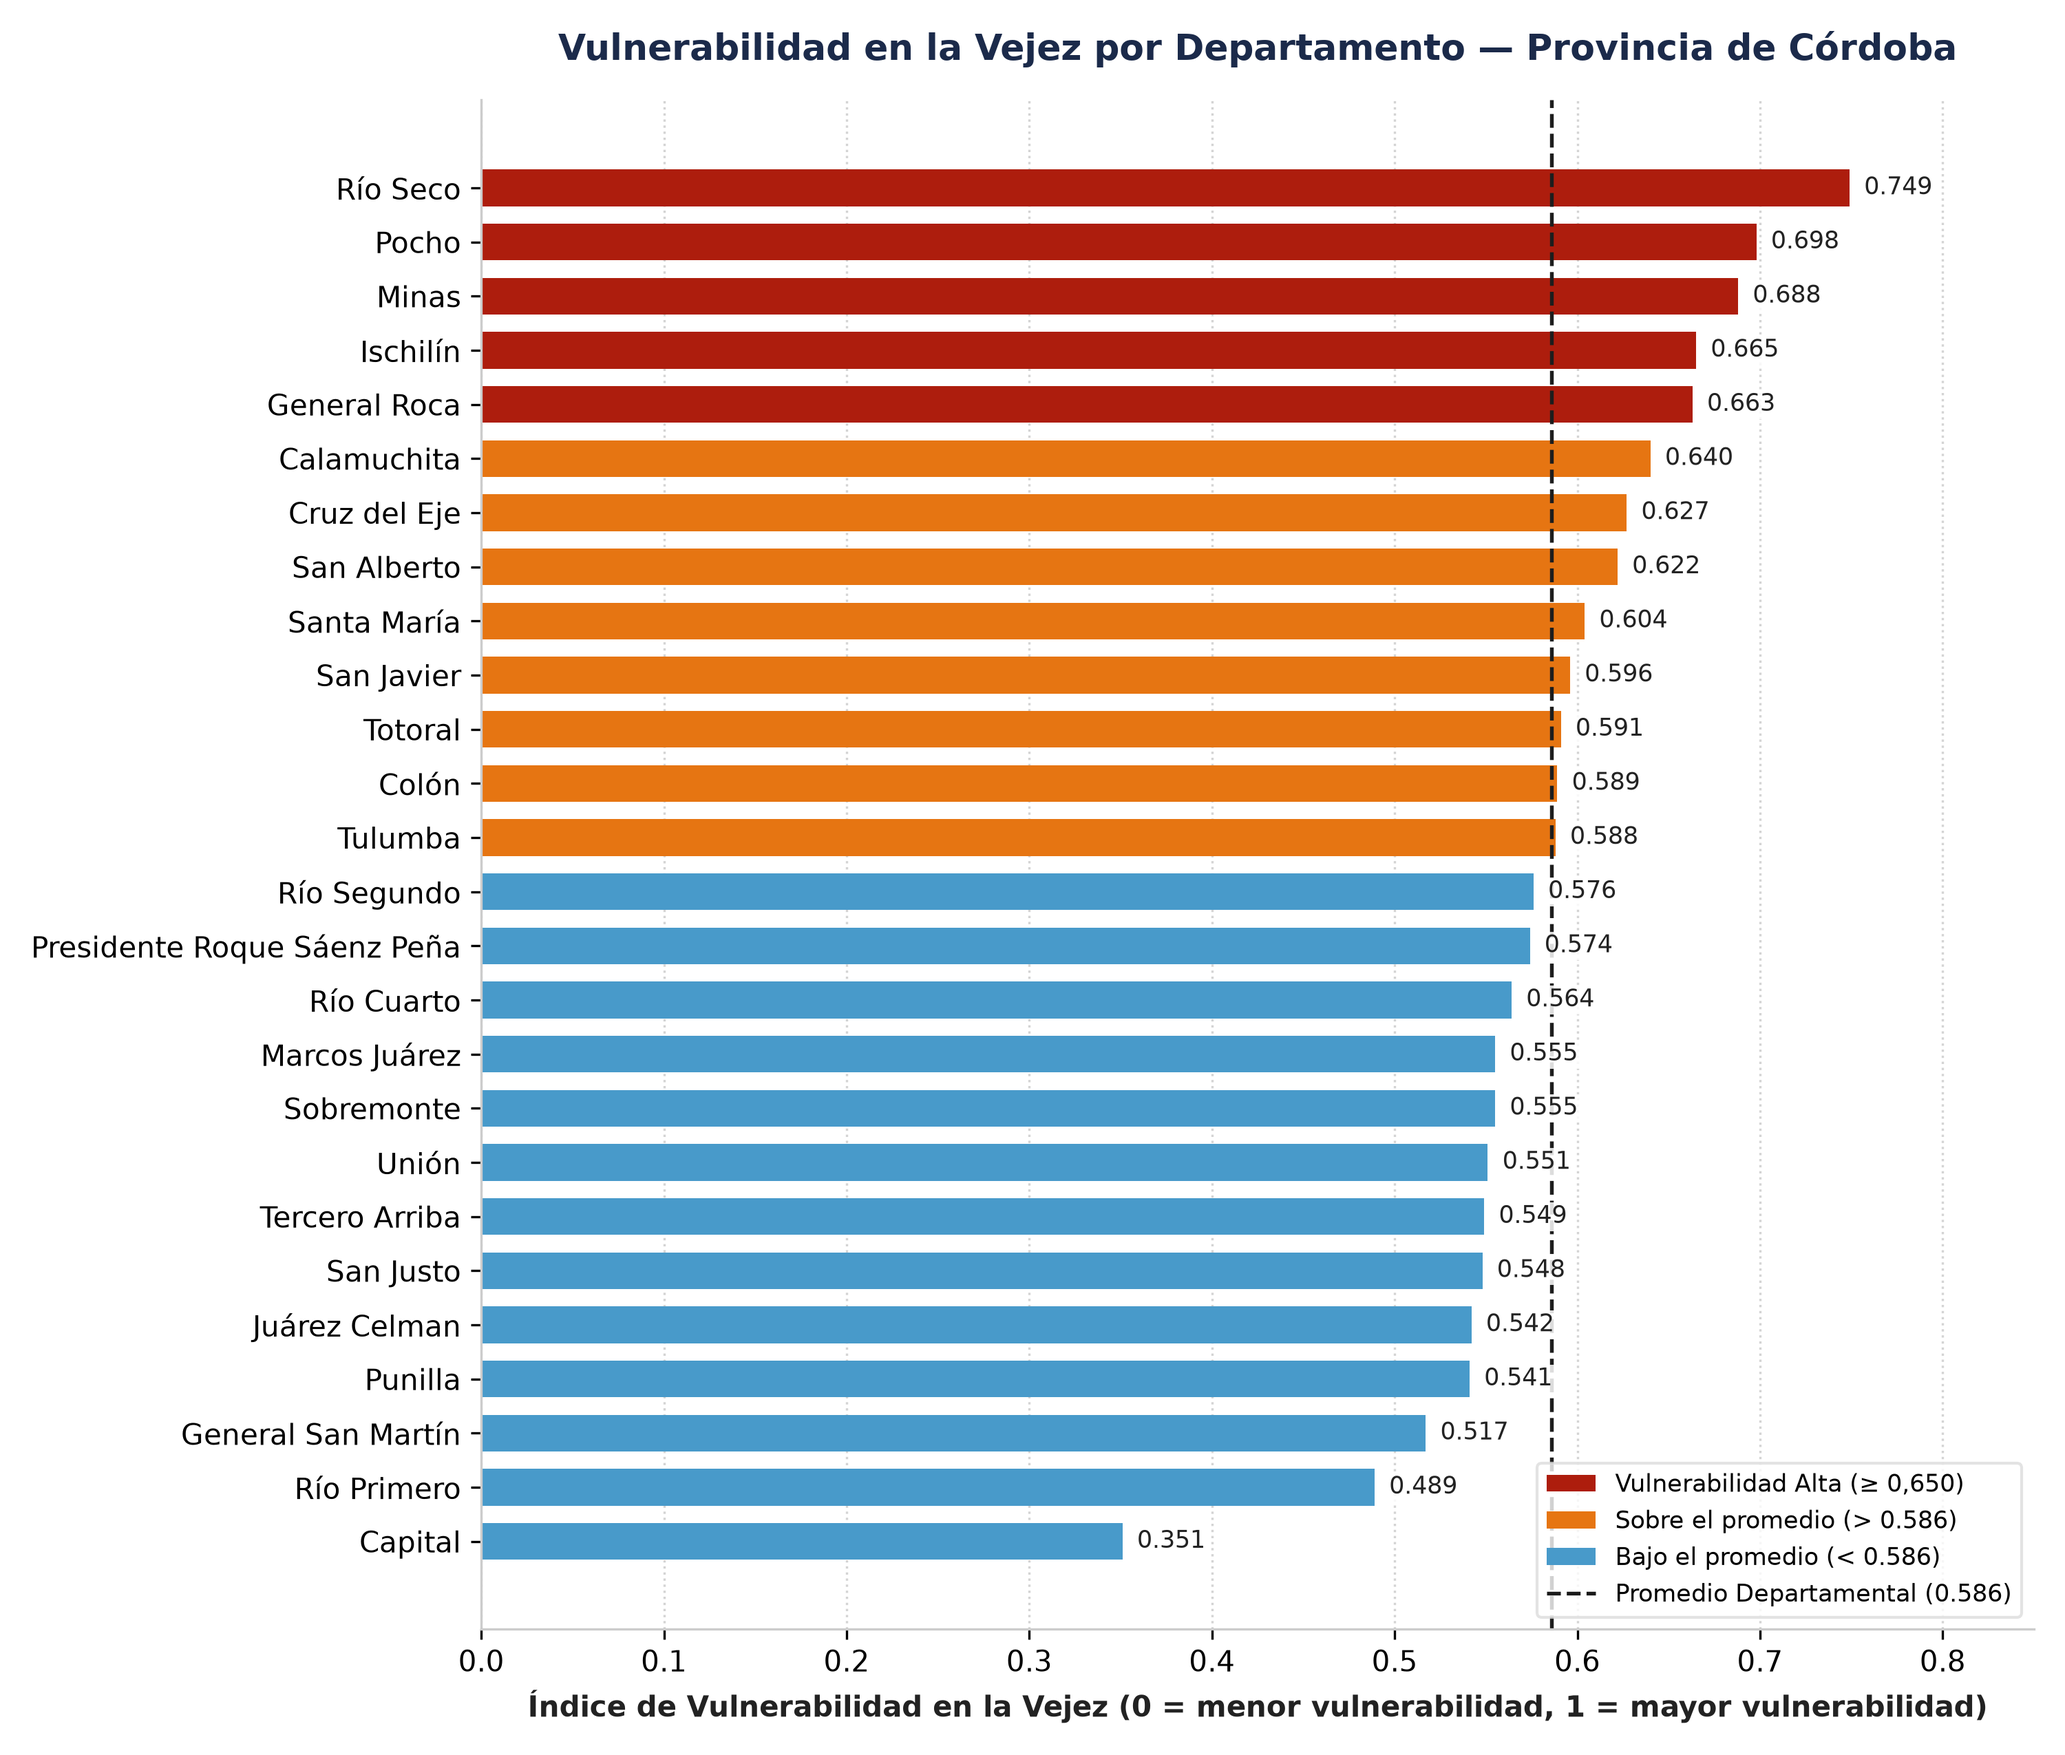
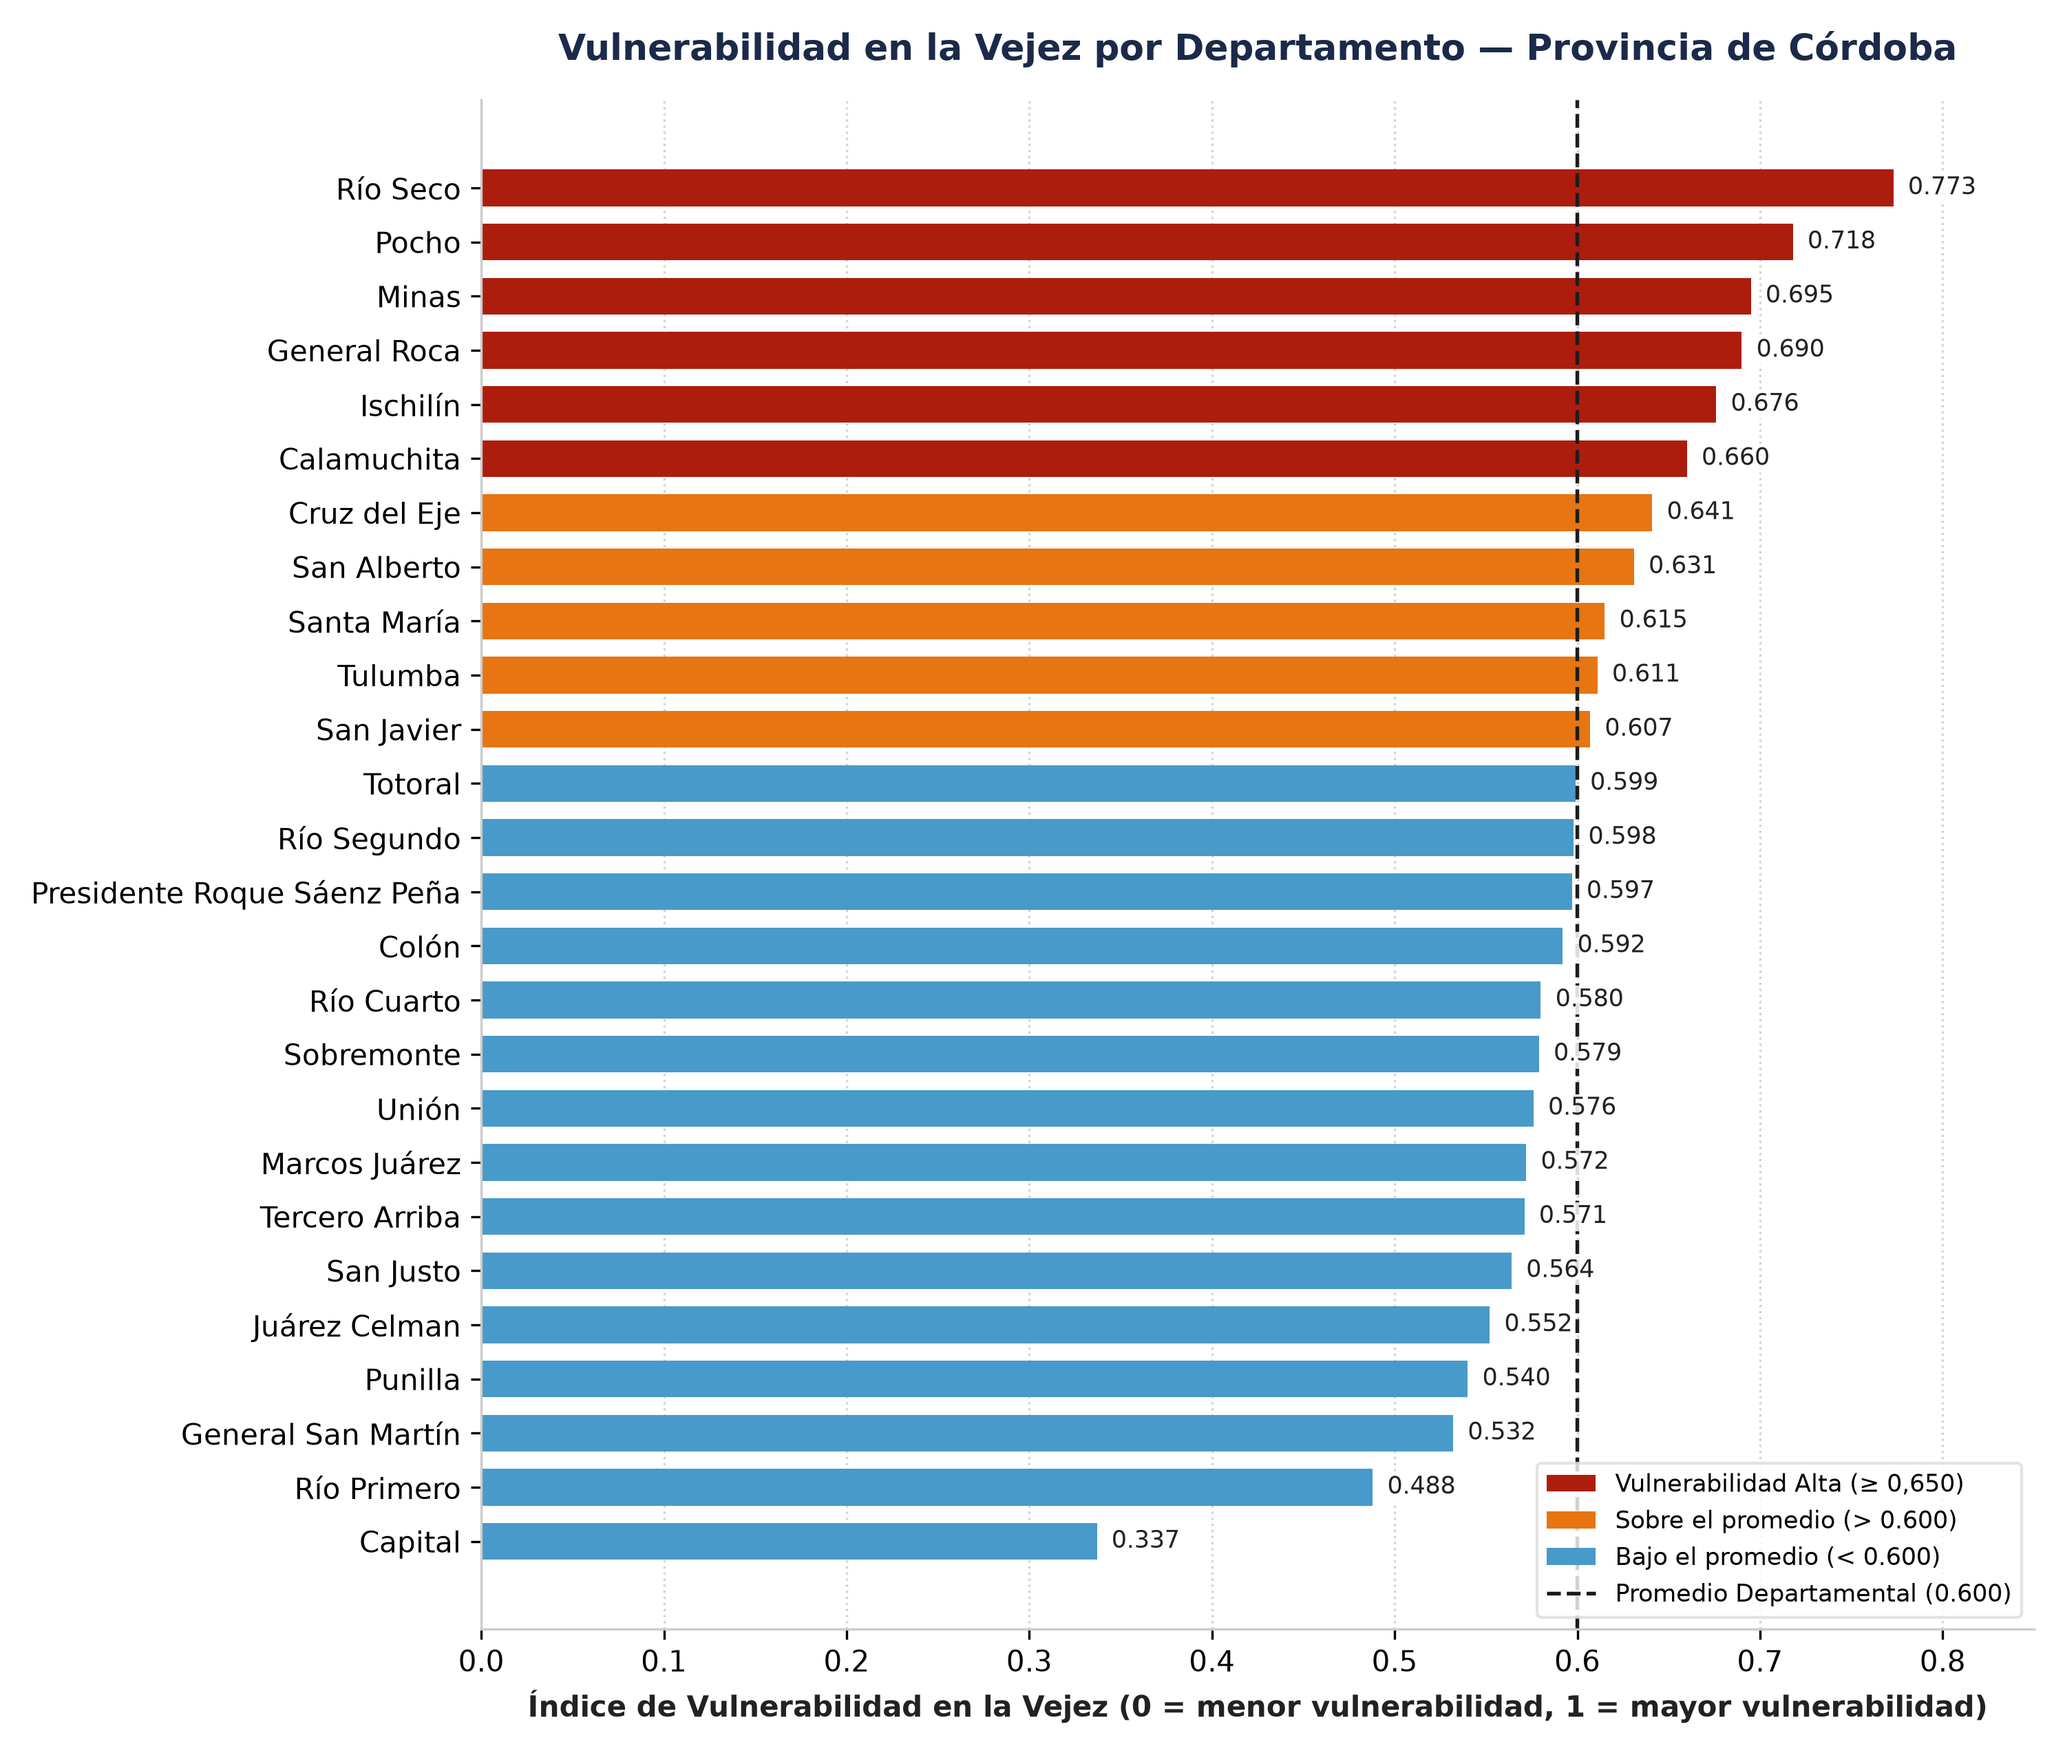
Correcion en los datos del indice de vulnerabilidad y graficos/mapa.

diff --git a/scripts/graph_vul.py b/scripts/graph_vul.py
@@ -15,32 +15,32 @@ departamentos = [
 
 # Índice de vulnerabilidad
 data = np.array([
-    [0.640],   # Calamuchita
-    [0.351],   # Capital
-    [0.589],   # Colón
-    [0.627],   # Cruz del Eje
-    [0.663],   # General Roca
-    [0.517],   # General San Martín
-    [0.665],   # Ischilín
-    [0.542],   # Juárez Celman
-    [0.555],   # Marcos Juárez
-    [0.688],   # Minas
-    [0.698],   # Pocho
-    [0.574],   # Presidente Roque Sáenz Peña
-    [0.541],   # Punilla
-    [0.564],   # Río Cuarto
-    [0.489],   # Río Primero
-    [0.749],   # Río Seco
-    [0.576],   # Río Segundo
-    [0.622],   # San Alberto
-    [0.596],   # San Javier
-    [0.548],   # San Justo
-    [0.604],   # Santa María
-    [0.555],   # Sobremonte
-    [0.549],   # Tercero Arriba
-    [0.591],   # Totoral
-    [0.588],   # Tulumba
-    [0.551],   # Unión
+    [0.660],   # Calamuchita
+    [0.337],   # Capital
+    [0.592],   # Colón
+    [0.641],   # Cruz del Eje
+    [0.690],   # General Roca
+    [0.532],   # General San Martín
+    [0.676],   # Ischilín
+    [0.552],   # Juárez Celman
+    [0.572],   # Marcos Juárez
+    [0.695],   # Minas
+    [0.718],   # Pocho
+    [0.597],   # Presidente Roque Sáenz Peña
+    [0.540],   # Punilla
+    [0.580],   # Río Cuarto
+    [0.488],   # Río Primero
+    [0.773],   # Río Seco
+    [0.598],   # Río Segundo
+    [0.631],   # San Alberto
+    [0.607],   # San Javier
+    [0.564],   # San Justo
+    [0.615],   # Santa María
+    [0.579],   # Sobremonte
+    [0.571],   # Tercero Arriba
+    [0.599],   # Totoral
+    [0.611],   # Tulumba
+    [0.576],   # Unión
 ])
 
 promedio = np.mean(data)  # 0.585846

diff --git a/scripts/map_vul.py b/scripts/map_vul.py
@@ -21,10 +21,32 @@ departamentos = [
 ]
 
 data = np.array([
-    [0.640], [0.351], [0.589], [0.627], [0.663], [0.517], [0.665], [0.542],
-    [0.555], [0.688], [0.698], [0.574], [0.541], [0.564], [0.489], [0.749],
-    [0.576], [0.622], [0.596], [0.548], [0.604], [0.555], [0.549], [0.591],
-    [0.588], [0.551]
+    [0.660],   # Calamuchita
+    [0.337],   # Capital
+    [0.592],   # Colón
+    [0.641],   # Cruz del Eje
+    [0.690],   # General Roca
+    [0.532],   # General San Martín
+    [0.676],   # Ischilín
+    [0.552],   # Juárez Celman
+    [0.572],   # Marcos Juárez
+    [0.695],   # Minas
+    [0.718],   # Pocho
+    [0.597],   # Presidente Roque Sáenz Peña
+    [0.540],   # Punilla
+    [0.580],   # Río Cuarto
+    [0.488],   # Río Primero
+    [0.773],   # Río Seco
+    [0.598],   # Río Segundo
+    [0.631],   # San Alberto
+    [0.607],   # San Javier
+    [0.564],   # San Justo
+    [0.615],   # Santa María
+    [0.579],   # Sobremonte
+    [0.571],   # Tercero Arriba
+    [0.599],   # Totoral
+    [0.611],   # Tulumba
+    [0.576],   # Unión
 ])
 
 promedio = np.mean(data)  # 0.585846
